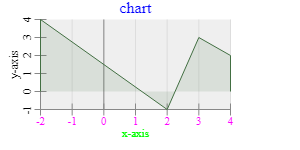
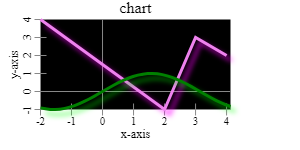
Add chart test (line shadow)

diff --git a/docs/index/index.chart.js b/docs/index/index.chart.js
@@ -19,7 +19,19 @@ new TestContainer("chart",
             xaxis:{title:"x-axis",origin:true},
             yaxis:{title:"y-axis",origin:true},
         })`),
+
                 new Test('chart-3',
+                        `g2().view({cartesian:true})
+        .chart({x:40,y:40,b:190,h:90,fs:'black',
+                funcs:[
+                        {data:[-2,4,2,-1,3,3,4,2],style:{ls:'violet',lw:3,sh:[5,5,5,'rgba(255,0,255,0.7)']}},
+                        {fn:Math.sin,dx:Math.PI/20,style:{ls:'green',lw:3,sh:[5,5,5,'rgba(0,255,0,0.5)']}}
+                ],
+                title:{text:"chart"},
+                xaxis:{title:"x-axis",origin:true},
+                yaxis:{title:"y-axis",origin:true},
+        })`),
+                new Test('chart-4',
                         `g2().view({cartesian:true})
         .chart({x:40,y:40,b:190,h:90,
                 funcs:[{data:[-2,4,2,-1,3,3,4,2],fill:true}],
